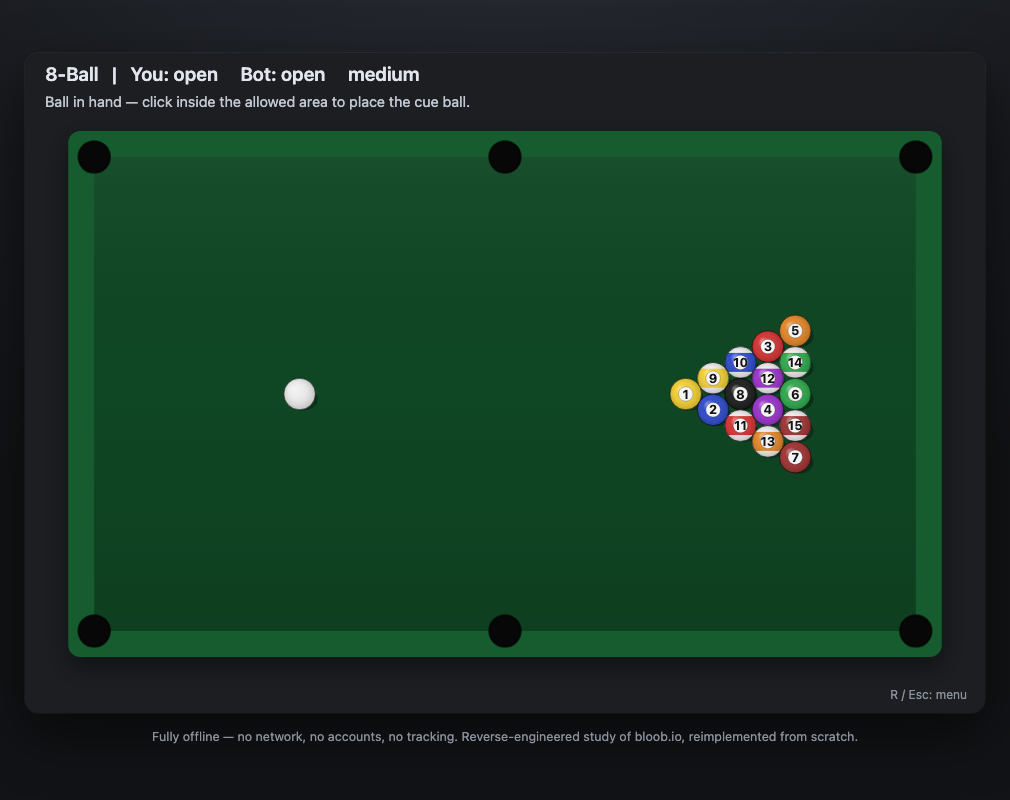
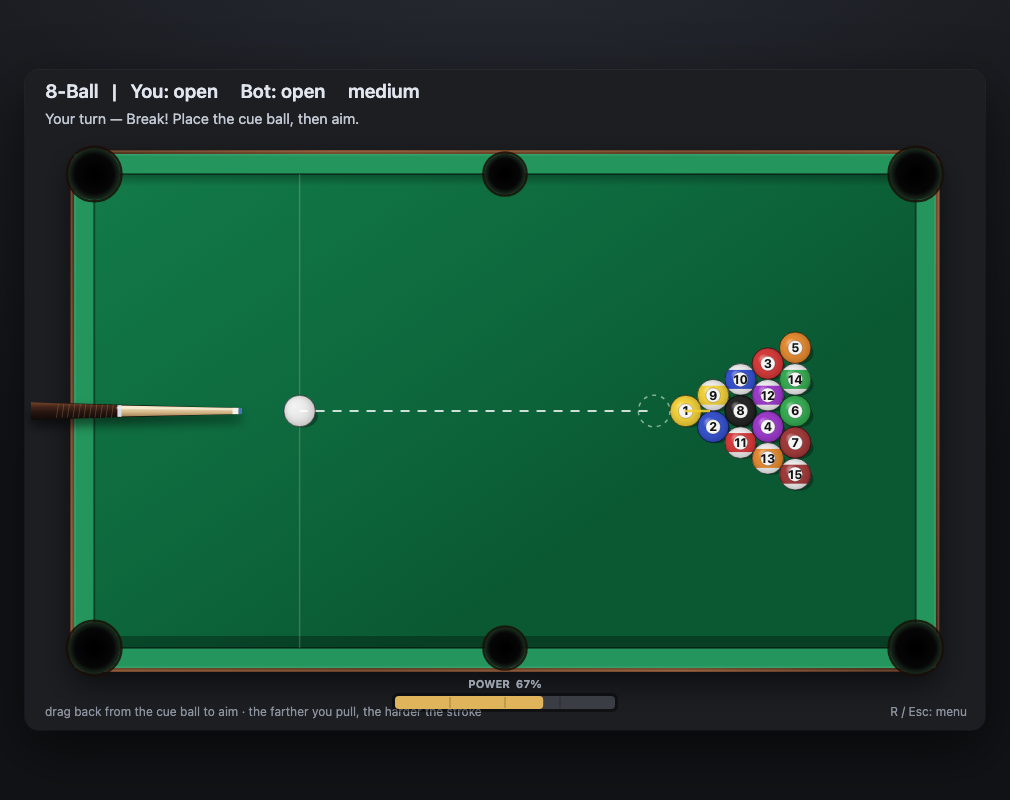
docs: document the presentation layer and the measured power model
Refreshes the screenshots (aiming with cue + shot line, and the break in
progress) and records the new numbers: logic 23/23 and UI 30/30.

diff --git a/README.md b/README.md
@@ -35,6 +35,24 @@ No install, no local server, no network:
   the shot travels opposite the drag.
 - **R / Esc** — back to the menu.
 
+The drag is gamma-shaped (`power = min + frac^1.35 · range`), so the first third of the pull is a soft touch
+and only the last stretch reaches a full stroke. A live `POWER n%` bar makes it easy to judge.
+
+### Presentation
+
+![Break](docs/screenshots/break.png)
+
+- **Rolling balls.** Each ball carries a roll angle (`dθ = ds / r`, so it turns exactly as far as it travels).
+  The number patch and the snooker sheen slide and squash across the sphere as it turns, and disappear behind
+  the horizon when the ball has rolled past them; a soft ball-coloured comet tail trails anything moving fast.
+  When a ball settles, the pattern eases face-up so the number is always readable at rest.
+- **The cue.** A drawn cue — rosewood butt, linen wrap, joint collar, maple shaft, ivory ferrule, chalked tip
+  — sits off the cue ball, pulls back as you drag and snaps through the ball on release. Its thickness scales
+  with the ball radius, and it is shortened if the butt would leave the canvas.
+- **The shot line.** The cue-ball path to first contact, the **ghost ball** at that contact point, the object
+  ball's line (clipped to the first ball or cushion in the way, and pulsing the pocket when it is lined up),
+  and the cue ball's deflection afterwards — all from pure geometry, recomputed every frame.
+
 ### Why it really is offline
 - Plain classic `<script>` tags (no ES modules), so opening the file via `file://` works — **no `http.server` needed**.
 - No network requests, no accounts, no cookies, no `localStorage`.
@@ -80,6 +98,19 @@ gets a **penalty**, so the bot prefers a slightly harder pot that keeps position
 **Escape shots.** When nothing can be potted (blocked line, i.e. snookered), it mirrors each target across
 every cushion to build **one-rail bank/kick** lines, simulates them, and plays the one that legally contacts
 the ball that is on. A plain safety is the last resort.
+
+**Measured power, not maximum power.** The old heuristic (`360 + 5.5 × distance`) was roughly ten times too
+hot, so almost every shot saturated the cap and the bot smashed everything. With per-second exponential
+friction a ball coasts exactly `v₀ / k` units, so the stroke a shot actually needs follows from the geometry:
+
+```
+power = k · (d_cue→ghost + d_object→pocket / cos(cut)) + 40
+```
+
+Thin cuts need proportionally more cue speed because only the normal component transfers. The result is short
+positional strokes for short pots and a full stroke only when the table demands one — a full 8-ball frame now
+strokes between roughly 130 and 1000 units instead of pinning 1350, and the break is the one shot that is
+deliberately fired hard (`BREAK_8BALL = 950`, `BREAK_SNOOKER = 520`).
 
 Difficulty tiers change aim noise, search depth and power jitter. The physics is framework-agnostic, so the
 whole bot runs headless (that is how it is verified).
@@ -129,12 +160,14 @@ The JavaScript port surfaced three genuine bugs that also affected the Python bu
 
 ## Verification
 
-- **Logic (Node, headless): 14/14** — physics settles; a full 8-ball frame completes; **no ball ever leaves
-  the table**; snooker reds decrement consistently; colours pot in ascending order.
+- **Logic (Node, headless): 23/23** — physics settles; rolling advances with travel; a full 8-ball frame
+  completes; **no ball ever leaves the table**; the bot's strokes stay inside the power envelope and average
+  well below the cap; snooker reds decrement consistently; colours pot in ascending order.
 - **Position play & escapes (Node, headless): 6/6** — a deliberately snookered cue finds a one-rail kick that
   contacts the ball on, stays on the table, and the 8-ball / snooker frames still finish.
-- **UI wiring (headless DOM/Canvas): 20/20** — menu → start → place → aim → shoot → resolve → bot turn, for
-  both modes, plus the game-over overlay.
+- **UI wiring (headless DOM/Canvas): 30/30** — menu → start → place → aim → pull → strike → resolve → bot
+  turn, for both modes, plus the game-over overlay and a monotonic power curve from a soft tap to a full
+  stroke.
 - Screenshots above are real renders captured with headless Chrome.
 
 ## Scope / progress
@@ -148,6 +181,8 @@ The JavaScript port surfaced three genuine bugs that also affected the Python bu
 - [x] **Zero-dependency offline web build (Canvas 2D)**
 - [x] Standard-proportion snooker table, markings and ball set
 - [x] Bot position play (走位) + one-rail escape shots
+- [x] Rolling-ball animation, drawn cue and the full aiming aid
+- [x] Measured bot power (no more "everything at maximum")
 - [x] Offline verification: 8-ball and snooker can be played to completion
 - [x] Hosted copies: GitHub Pages & WorkBuddy
 
@@ -166,6 +201,15 @@ Learning / engineering exercise. Gameplay inspiration comes from bloob.io (Kingl
 配木质台身、绿色台呢、开球线与 D 区、六个点位、角袋大于中袋、无色号的高光球体。
 bot 除 ghost-ball 进球搜索外，新增**走位评估**（打完球后母球是否还有清晰下一杆）与**一库解球**救球，
 被斯诺克时不再直接犯规。逆向结论、建模决策与移植中修复的 bug 见上文与 `docs/REA_findings.md`。
+
+**画面**：球会真的滚（号码盘随滚动滑移、压扁、转到背面消失，停下时自动转正），快速移动带拖影；
+球杆是完整的（紫檀后把、线缠、接牙、枫木前节、白铜先角、巧克杆头），拉杆时后撤、出杆时抽送；
+瞄准辅助给出母球路径、假想球、目标球预测线（遇到球或库边就截断，正对袋口时袋口脉冲）和母球分离线。
+
+**力度**：bot 不再"每杆最大力"。指数摩擦下球滑行距离恰为 `v₀/k`，于是所需速度可由几何直接算出
+`power = k·(母球到假想球距离 + 目标球到袋距离 / cos(切角))`，薄球按法向分量补偿。实测一整局 8 球
+力度落在 ~130–1000（上限 1350），只有开球是刻意发力。玩家侧拖拽用 gamma 曲线，前 1/3 是轻推，
+后段才到满杆，并实时显示 `POWER n%`。
 
 ---
 

diff --git a/docs/REA_findings.md b/docs/REA_findings.md
@@ -76,6 +76,8 @@
 - **走位评估（REIMPLEMENTATION，自写）**：每个模拟候选都会记录**母球停点**，再用同一套幽灵球检查判断"从这个位置还有没有清晰下一杆"——按 **8 球分组 / 斯诺克阶段**推出"下一杆 on 球"，遍历其 × 袋口，取最好的通透度（距离越短越优）归一化到 0..1。落袋后无清晰下一杆时给**负分**，所以 bot 会宁愿选一杆略难但留得住位的球。权重：8 球 `+60`（死位 `-22`），斯诺克 `+6`（死位 `-2.5`）。
 - **一库解球（REIMPLEMENTATION，自写）**：无可落袋候选时（被斯诺克），把每个目标球对**每条库边**做镜像，求"母球→镜像点"与库边线段的交点得到撞库点（沿入射方向回退一个球半径补偿），检查母→撞库点、撞库点→目标两条路径，再在克隆世界模拟；优先选**首球合法**的线路（+30，母球进袋 -300、漏球 -60、首球非法 -120）。都不可行才退回安全球。
 - 难度档（`DIFFICULTY`）：easy/medium/hard 调整瞄准噪声、候选搜索深度、力度抖动；hard 几乎零噪声、全搜索。
+- **力度模型（REIMPLEMENTATION，自写）**：旧公式 `360 + 5.5×距离` 比实际所需大约高一个数量级，几乎每杆都顶到上限（表现为 bot "每次都最大力"）。在每秒指数摩擦下，球恰好滑行 `v₀/k` 个单位，所以所需速度可直接由几何反解：`power = k·(母球→假想球 + 目标球→袋 / cos(切角)) + 40`，薄球按法向分量补偿（`cut` 下限 0.32）。实测一整局 8 球力度落在 ~130–1000（上限 1350），只有开球（`BREAK_8BALL=950` / `BREAK_SNOOKER=520`）是刻意发力。
+- **表现层（REIMPLEMENTATION，与规则无关）**：`Ball.angle / dirx / diry` 记录滚动角（`dθ = ds/r`），供渲染把号码盘与高光沿球面滑移、压扁、转到背面时隐去；落定时角度归正到 `2π` 的整数倍，保证静止球的号码始终可读。该状态**从不被规则或 bot 读取**。
 
 ## 6. 未知 / 局限（UNKNOWN）与已决建模
 - 碰撞积分公式（自研 vs Matter.js 风格）— 引擎块未静态定位，无法确认 → **我们采用标准脉冲式圆-圆弹性碰撞 + 库边反射**。
@@ -101,8 +103,9 @@
 4. 界面/输入/渲染：`src/main.py`（pygame 菜单 + 弹弓式瞄准 + 动画步进 + HUD）。
 5. 全部代码独立重写，不含 bloob 专有代码/素材；bloob 原始 JS 仅在 `artifacts/`（被 `.gitignore` 排除，不入库）。
 6. **离线网页（`web/`）**：把上述物理/规则/bot **逐行移植为纯 JavaScript**，UI 用 Canvas 2D 重写。刻意使用 classic `<script>`（非 ES module），因此 `file://` 直接双击即可运行，无需本地服务器、零依赖、零网络。
-7. 验证：Node 无头跑逻辑不变量（14 项）+ 走位/解球专项（6 项）+ 无头 DOM/Canvas 跑 UI 交互（20 项）；并用 headless Chrome 真实截图核对版式（见 `docs/screenshots/`）。
+7. 验证：Node 无头跑逻辑不变量（23 项）+ 无头 DOM/Canvas 跑 UI 交互（30 项）；并用 headless Chrome 真实截图核对版式（见 `docs/screenshots/`）。
 8. **斯诺克台面按标准样式重绘**：木质台身、比台呢略亮的库边胶条、绿色台呢带光泽、开球线与 D 区、六个点位、角袋大于中袋、无色号的高光球体（母球象牙白）。
+9. **表现层**：球滚动（号码盘随角度滑移/压扁/隐去、高速拖影尾部渐细）、完整球杆（紫檀后把 + 线缠 + 接牙 + 枫木前节 + 白铜先角 + 巧克杆头，随球半径缩放、拉杆后撤、出杆抽送、贴边自动缩短以免被画布硬切）、瞄准辅助（母球路径 + 假想球 + 目标球预测线（遇球/库截断，正对袋口时袋口脉冲）+ 母球分离线）。8 球与斯诺克共用同一套木质台身渲染，只是袋口与标线不同。
 
 > 建模决策（UNKNOWN 项）已在 §6 给出：摩擦用每秒指数衰减；落袋捕获半径放宽为 1.5× 球半径以保证可玩；
 > 另加台面边界兜底、母球在 D 区内偏移起步、红球三角架方向修正。移植到网页时这三处真实 bug 一并修复（Python / JS 双端同步）。
